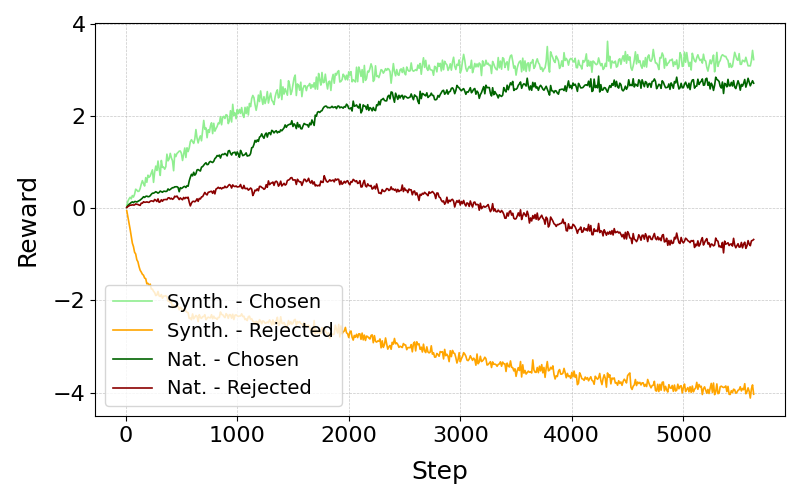
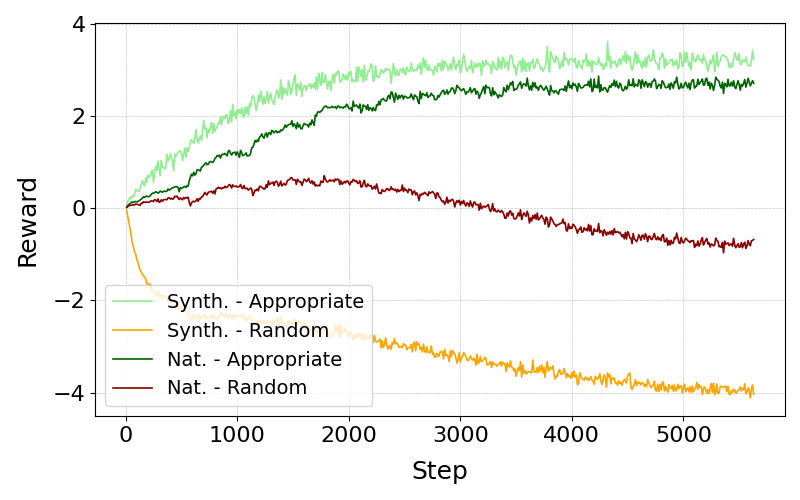
add count tokens script

Changed region(s): [[0.2812, 0.57, 0.4688, 0.81]]

diff --git a/plot_reward_loss_dpo.py b/plot_reward_loss_dpo.py
@@ -27,10 +27,10 @@ plt.close()
 
 # Plot 2: Rewards over Steps
 plt.figure(figsize=(8, 5))
-plt.plot(df_synth["step"], df_synth["rewards/chosen"], label="Synth. - Chosen", color="#90ee90", linewidth=line_width)
-plt.plot(df_synth["step"], df_synth["rewards/rejected"], label="Synth. - Rejected", color="orange", linewidth=line_width)
-plt.plot(df_real["step"], df_real["rewards/chosen"], label="Nat. - Chosen", color="darkgreen", linewidth=line_width)
-plt.plot(df_real["step"], df_real["rewards/rejected"], label="Nat. - Rejected", color="darkred", linewidth=line_width)
+plt.plot(df_synth["step"], df_synth["rewards/chosen"], label="Synth. - Appropriate", color="#90ee90", linewidth=line_width)
+plt.plot(df_synth["step"], df_synth["rewards/rejected"], label="Synth. - Random", color="orange", linewidth=line_width)
+plt.plot(df_real["step"], df_real["rewards/chosen"], label="Nat. - Appropriate", color="darkgreen", linewidth=line_width)
+plt.plot(df_real["step"], df_real["rewards/rejected"], label="Nat. - Random", color="darkred", linewidth=line_width)
 plt.xlabel("Step", fontsize=label_fontsize, labelpad=10)
 plt.ylabel("Reward", fontsize=label_fontsize, labelpad=10)
 plt.xticks(fontsize=tick_fontsize)

diff --git a/count_tokens.py b/count_tokens.py
@@ -1,0 +1,18 @@
+from datasets import load_dataset
+
+# Load datasets
+dataset1 = load_dataset("fpadovani/child-dpo-preferences-synthetic", split="train")
+dataset2 = load_dataset("fpadovani/child-dpo-preferences", split="train")
+
+def count_whitespace_tokens(dataset):
+    total_tokens = 0
+    for row in dataset:
+        text = (row["prompt"] or "") + " " + (row["chosen"] or "")
+        total_tokens += len(text.strip().split())
+    return total_tokens
+
+tokens_dataset1 = count_whitespace_tokens(dataset1)
+tokens_dataset2 = count_whitespace_tokens(dataset2)
+
+print(f"Dataset 1 total whitespace tokens: {tokens_dataset1:,}")
+print(f"Dataset 2 total whitespace tokens: {tokens_dataset2:,}")
